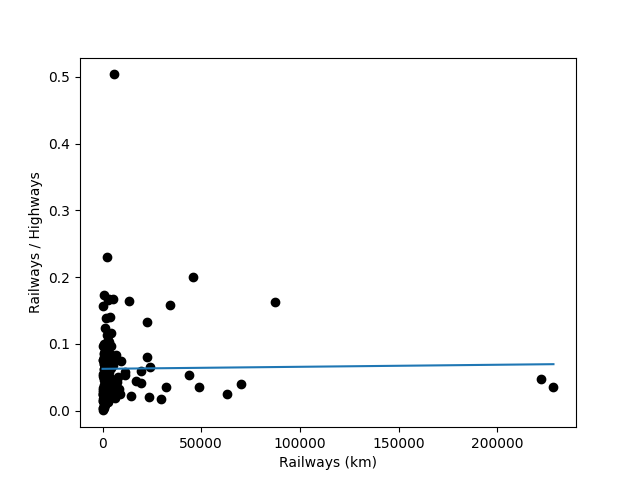
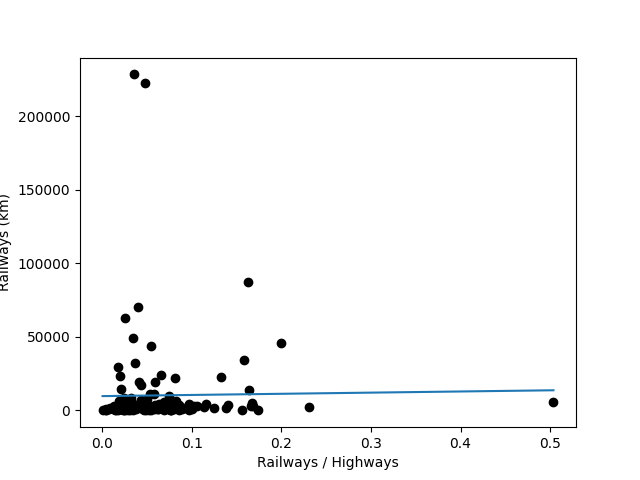
update to report

diff --git a/writing/report.md b/writing/report.md
@@ -23,7 +23,7 @@ The research questions that I used to guide my analysis of the data and test my 
 ```
   1. Is there a correlation between GDP per capita and infant mortality rate?
   2. Is there a correlation between energy consumption and natural gas production in this data set?
-  3. Do countries with more railways have less highways?
+  3. Do countries with more extensive railways have less highways?
   4. Does a higher fertility rate correlate with a higher AIDS prevalence rate among adults? If so, how many countries are affected by this in the data set?
   5. Do the countries with the highest GDP have less debt (proportionally) than those with the lowest?
 ```
@@ -116,6 +116,7 @@ The code block below shows an example (Bahrain) of what the structure of each do
 **Is there a correlation between GDP per capita and infant mortality rate?**
 
 ***Background***:
+
 I originally thought of this question because I was thinking about the different factors that could effect infant mortality rate. When I discovered the `GDP_per_capita` field, I became curious to see if in countries with a lower GDP per capita there was also higher rates of infant mortality.
 
 Query 1:
@@ -158,10 +159,17 @@ Results:
 ```
 
 ***Conclusion***:
+
 To reiterate, the purpose of this research question was to determine if there was an observable link between GDP per capita and infant mortality rate in the countries within the data set. Based on the queries that were run, a clear correlation between GDP per capita and infant mortality rate can be observed. In countries where the GDP per capita is highest, there seems to be the lowest rates of infant mortality. This means that, unfortunately, in countries that boast "subpar" GDP per capita numbers, there are higher rates of infant mortality. According to the results of each query, the average GDP per capita for all of the countries on the list was 10,552. On average, the countries that are above this threshold have an infant mortality rate of `8.57 deaths / 1000 live births`. On the contrary, the countries below this mark have an average rate of `49.57 deaths / 1000 live births`. That is a difference of 41 deaths per 1000 babies born which is an alarming and upsetting fact. Since this trend is observable, it leads to the conclusion that resources and aid to countries with lower GDP per capita numbers is very valuable. Proper access to sufficient healthcare is a large part of ensuring a baby lives upon birth and the countries that have the least access to such healthcare are typically those with a lower GDP per capita.
 
 ---
 **Is there a correlation between energy consumption and natural gas production in this data set?**
+
+***Background***:
+
+When I initially saw these two statistics in the CSV data file, I did not think about attempting to observe a trend between them. As I thought more about it, however, I was curious what the trends were for different countries in regards to consuming electricity and producing natural gas. I wanted to extract information out of the data that would show me any possible relationship between these two things. Once I had this data, however, I wanted to produce some sort of graphical representation of the results in order to allow for a more clear explanation of the trends. To do this, I created a python script called `question_2.py`. When run inside of a mongo container, this script creates an image of a graph that has all of the points from the data that the queries returned as well as a line of best fit to show the trend among outlier data that made the majority of points harder to read. Below is a code snipped with the main function that `question_2.py` uses to create this graph.
+
+![image](img/question_2.png)
 
 Query:
 ```
@@ -172,7 +180,7 @@ Description:
 - Provide me with the electricity consumption and natural gas production of a country where both values are not equal to ""
 
 Results:
-<details><summary>Click for results</summary>
+<details><summary><b>Click for results</b></summary>
 <p>
 ```
 { "Electricity_consumption" : 652200000, "Natural_gas_production" : 220000000 }
@@ -291,8 +299,18 @@ Plot:
 
 ![image](img/q_2.png)
 
+***Conclusion***:
+
+Upon analyzing the data from the queries and observing the graph produced by `question_2.py`, a clear positive correlation can be observed between natural gas production (cubic meters) and electricity consumption (kWh) in the countries within the data set. The scatter points in the graph appear hard to read due to outlier data that skews the scale of the graph, but the slope and angle of the line of best fit looks just like that of a direct correlation. As a general trend, when electricity consumption increases, so does natural gas. This trend may appear as commonsense but when I initially considered the possibilities, I thought it would be possible for there to be no correlation meaning that most countries imported the majority of their energy, aside from a few powerhouse countries in the middle east, Iceland, China, India, and the United States.   
+
 ---
-**Do countries with more railways have less highways?**
+**Do countries with more extensive railways have less highways?**
+
+***Background***:
+
+The reason that this question was asked is that railways and highways are often an important indicator of economic succes, as more extensive systems account for the easier and more efficient transportation of goods. If a common trend in the proportion of railways to highways in a country can be found, then you would have the ability to compare these numbers to the amount of land in a country, and a countries economic success, to observe if there is a correlation between those as well. Just as in the previous research question that was discussed, the results from the queries that were run for this question contained hundreds of documents. In order to view these trends more clearly and easily show the correlation coefficient (slope of line of best fit), a python script was used to develop a graph using PyMongo and matplotlib. The file `question_3.py` in the src directory handles this, and can be used to recreate this graph as the data changes. Below is the main function from `question_3.py` that handles the querying and creation of the following graph.
+
+![image](img/question_3.png)
 
 Query:
 ```
@@ -448,6 +466,10 @@ Results:
 Plot:
 
 ![image](img/q_3.png)
+
+***Conclusion***:
+
+Upon reviewing the results of the query, there does not seem to be any correlation between the extensiveness of a countries railway system and the extensiveness of their highway system. For the majority of countries, the ratio of length of railways (km) to length of highways (km) is very similar. This means that the one of the only factors that really effects the length of highway and railways systems in a country is the size of it's land mass.
 
 **Does a higher fertility rate correlate with a higher AIDS prevalence rate among adults? If so, how many countries are affected by this in the data set?**
 
